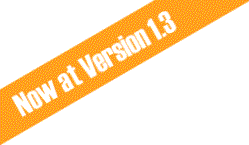
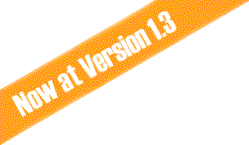
Website: Release Open Rails 1.3
git-svn-id: http://svn.uktrainsim.com/svn/openrails/trunk@4312 a9f3cfff-6c41-7446-b0ca-052bd761e6eb

diff --git a/index.css b/index.css
@@ -10,7 +10,7 @@
   color: #222;
 }
 .totally_free_software {
-  position: absolute; 
+  position: absolute;
   width: 249px;
   height: 143px;
   margin-top: 0px;
@@ -18,7 +18,7 @@
   -webkit-filter: drop-shadow(1px 0px 1px black); filter: drop-shadow(1px 0px 1px black);
 }
 .logo {
-  position: absolute; 
+  position: absolute;
   width: 64px;
   height: 64px;
   margin-top: 40px;
@@ -26,7 +26,7 @@
 }
 
 .logo_text {
-  position: absolute; 
+  position: absolute;
   margin-top: 70px;
   margin-left: 268px;
   font-size: 30px;
@@ -35,7 +35,7 @@
 
 .since_last_visit {
   position: absolute;
-	width: 10em; 
+	width: 10em;
   margin-top: 50px;
   margin-left: 10px;
 }
@@ -56,7 +56,7 @@
 	color: black;
 	opacity: 0.8;
 }
-a.download_button, a.download_button,:hover {
+a.download_button, a.download_button, :hover {
 	color: black;
 	text-decoration: none;
 }

diff --git a/index.php b/index.php
@@ -6,10 +6,11 @@
     <div class="container"><!-- Centres content and sets fixed width to suit device -->
       <div class="row">
         <div class="col-md-9 header">
-          <img class="totally_free_software" src="shared/totally_free_software3.png" alt="Totally free software"/>
+          <!--<img class="totally_free_software" src="shared/totally_free_software3.png" alt="Totally free software"/>-->
           <!--<img class="totally_free_software" src="shared/now_at_version_1_0b.png" alt="Now at Version 1.0"/>-->
           <!--<img class="totally_free_software" src="shared/now_at_version_1_1.png" alt="Now at Version 1.1"/>-->
           <!--<img class="totally_free_software" src="shared/now_at_version_1_2.png" alt="Now at Version 1.2"/>-->
+          <img class="totally_free_software" src="shared/now_at_version_1_3.png" alt="Now at Version 1.3"/>
           <a href="/">
             <img class="logo" src='shared/logos/or_logo.png' alt='logo for Open Rails'/>
             <div class="logo_text">Open Rails</div>
@@ -24,12 +25,12 @@
       </div>
 <?php include "shared/menu.php" ?>
 <?php
-  $download_stable = 'OpenRails-1.2-Setup.exe';
+  $download_stable = 'OpenRails-1.3-Setup.exe';
   $file_path = "files";
 ?>
       <div class="row">
         <div class="col-md-6">
-          <img class="focus_image" src='shared/banners/banner058.jpg' title="UP7964 leads 'K' Liner on LSRC (Michigan)&#xa;posted by ATW" alt="UP7964 leads 'K' Liner on LSRC (Michigan)&#xa;posted by ATW">
+          <img class="focus_image" src='banner.jpg' title="UP SD70ACe train consist visiting the CN Ruel Subdivision&#xa;(Open Rails route in development)&#xa;posted by TrainSimulations.net" alt="UP SD70ACe train consist visiting the CN Ruel Subdivision&#xa;(Open Rails route in development)&#xa;posted by TrainSimulations.net">
         </div>
         <div class="row preload hidden"></div> <!-- empty div used to hold banner preload -->
         <div class="col-md-6">
@@ -43,59 +44,48 @@
             <a href="#modal1" role="button" class='btn download_button' data-toggle="modal">
               <span class='glyphicon glyphicon-download'></span>&nbsp; Download the installer
               <?php echo '(' . date('d F Y', filemtime("$file_path/$download_stable")) . ', ' . round(filesize("$file_path/$download_stable") / 1024 / 1024) . 'MB)'; ?>
-            </a>
+			</a>
           </div>
         </div>
       </div>
       <div class="row">
         <div class="col-md-4 divider">
           <div class="heading">
-            <h4>Features</h4>
+            <h4>Key Changes in v1.3</h4>
           </div>
           <p>
-            <strong>Multiple languages</strong> are available for all text and menus.
+            Timetables can join and split trains to form new trains
           </p><p>
-            <strong>Accurate behaviour</strong> for steam, diesel and electric traction including trains with multiple locos.
+            Mouse control for 3D cabs
           </p><p>
-            <strong>Signals</strong> which correctly protect the train and permit complex timetabled operations.
+            Working transfer tables
           </p><p>
-            <strong>Multi-user mode</strong> in which any timetabled train can be driven in person or by computer.
-					</p>
+            Activity evaluation
+          </p><p>
+            Separate files for extensions to activity files
+          </p><p>
+            Many <a href="/discover/version-1-3/">more additions and improvements</a> are listed here.
+          </p>
         </div>
         <div class="col-md-4 divider">
           <div class="heading">
             <h4>News</h4>
           </div>
           <p>
+            <strong>Nov 2017</strong>
+            Open Rails trialled <a href="http://www.monogame.net/">with Monogame instead of XNA</a> uses less RAM and give higher frame rates.
+          </p>
+          <p>
             <strong>Jul 2017</strong>
             The Elvas Tower forum plays a major role in developing Open Rails but has been closed to non-members following a dispute.
             All of the <a href="http://www.elvastower.com/forums/">Open Rails sub-forums</a>
             are now open again and becoming a member is easier too.
-          </p>          <p>
+          </p>
+          <p>
             <strong>Feb 2017</strong>
-			3D cabs available commercially - 
+			        3D cabs available commercially -
             <a href="https://www.youtube.com/watch?v=EiccxSAIEe0&feature=em-subs_digest">see video</a>.
           </p>
-          <p>									 
-            <strong>Jan 2017</strong>
-            <a href="/discover/version-1-2/">Open Rails 1.2</a> released! <a href="/download/program/">Download it here</a>.
-          </p>
-<!--
-          <p>
-            <strong>Mar 2016</strong>
-            <a href="/discover/version-1-1/">Open Rails 1.1</a> released!
-          </p>
-          <p>
-            <strong>Dec 2015</strong>
-            The Elvas Tower forum plays a major role in developing Open Rails but has been closed to non-members following a dispute.
-            We can now report that some of the <a href="http://www.elvastower.com/forums/">Open Rails sub-forums</a>
-            are open again.
-          </p>
-          <p>
-            <strong>Jun 2015</strong>
-            The Australian <a href="http://www.zigzag.coalstonewcastle.com.au/">Great Zig Zag Railway</a> released for Open Rails v1.0
-          </p>
--->
         </div>
         <div class="col-md-4 divider">
           <div class="heading">
@@ -116,11 +106,6 @@
             </p><p>
               See more with this <a href="https://www.youtube.com/results?search_query=open+rails" target="_blank">YouTube search</a>.
             </p>
-            <h5>Open Rails Version 0.9</h5>
-            <p>
-              <a href="https://www.youtube.com/watch?v=G73ktiCNKRs" target="_blank">Improvements arriving in v0.9 of Open Rails</a> are demonstrated by one
-              of the project team.
-            </p>
           </div>
         </div>
       </div>
@@ -133,5 +118,81 @@ $title = 'Download Open Rails';
 $download_file = $download_stable;
 include "download/program/preamble.php";
 ?>
+      <!-- Modal -->
+      <style>
+        .modal-backdrop.in {
+          opacity: 0;
+        }
+        #modal2 .modal-dialog {
+          margin-top: 335px;
+        }
+        #modal2 .modal-content {
+          border: none;
+          background: none;
+          box-shadow: none;
+        }
+        #modal2 .user-new > .user-content {
+          background-color: rgb(88, 139, 45);
+        }
+        #modal2 .user-existing > .user-content {
+          background-color: rgb(45, 94, 139);
+        }
+        #modal2 .user-content {
+          padding: 1px 20px 20px;
+        }
+        #modal2 .user-content * {
+          color: white;
+        }
+        #modal2 .user-content button {
+          opacity: 1;
+          font-size: 2.5em;
+        }
+        #modal2 .user-content h1 {
+          font-size: 18px;
+          font-weight: normal;
+        }
+        #modal2 .user-content p {
+          margin: 1em 0;
+        }
+        #modal2 .user-content img {
+          width: 100%;
+        }
+      </style>
+
+      <div id='modal2' class='modal fade' tabindex='-1' role='dialog' aria-labelledby='myModalLabel' aria-hidden='true'>
+        <div class="modal-dialog modal-lg">
+          <div class="modal-content row">
+            <div class="user-new col-md-6">
+              <div class="user-content">
+                <button type="button" class="close" data-dismiss="modal" aria-hidden="true">&times;</button>
+                <h1>New to Open Rails?</h1>
+                <h1>This <strong><a href="http://www.zigzag.coalstonewcastle.com.au/route/downloads/" title="Tutorials in this kit will help you to learn the rudimentary controls in Open Rails, how to drive a steam locomotive, operate the air brakes to stop the train, to turn the locomotive on a turntable, to fuel locomotive with water and coal, and also how to shunt cars and wagons">Starter Kit</a></strong> is for you</h1>
+                <p>Quickest way to get started with Open Rails</p>
+                <p>Download installs both Open Rails v1.3 and the Zig Zag Railway route with tutorial activities</p>
+                <a href="http://www.zigzag.coalstonewcastle.com.au/route/downloads/" title="Tutorials in this kit will help you to learn the rudimentary controls in Open Rails, how to drive a steam locomotive, operate the air brakes to stop the train, to turn the locomotive on a turntable, to fuel locomotive with water and coal, and also how to shunt cars and wagons"><img src="landing_page_ctn.png"></a>
+              </div>
+            </div>
+            <div class="user-existing col-md-6">
+              <div class="user-content">
+                <button type="button" class="close" data-dismiss="modal" aria-hidden="true">&times;</button>
+                <h1>Already using Open Rails?</h1>
+                <h1>Try the <strong><a href="http://www.trainsimulations.net/ORTS_starter_pack.html">BNSF Scenic Route</a></strong></h1>
+                <p>High quality route donated by vendor TrainSimulations</p>
+                <p>This route has been updated for Open Rails to optimise physics and sound</p>
+                <a href="http://www.trainsimulations.net/ORTS_starter_pack.html"><img src="landing_page_ts.png"></a>
+              </div>
+            </div>
+          </div><!-- End of Modal content -->
+        </div><!-- End of Modal dialog -->
+      </div><!-- End of Modal -->
+    </div>
+    <!-- pop up modal2 -->
+    <script type="text/javascript">
+    $(window).on('load',function(){
+      if (!window.matchMedia || window.matchMedia('(min-width: 992px)').matches) {
+        $('#modal2').modal('show');
+      }
+    });
+    </script>
   </body>
 </html>

diff --git a/shared/menu.php b/shared/menu.php
@@ -31,7 +31,8 @@ function in_directory($cwd, $name) {
                 <li><a href="/discover/our-plans/">Our Plans</a></li>
                 <!--<li><a href="/discover/version-1-0/">Version 1.0</a></li>-->
                 <!--<li><a href="/discover/version-1-1/">Version 1.1</a></li>-->
-                <li><a href="/discover/version-1-2/">Version 1.2</a></li>
+                <!-- <li><a href="/discover/version-1-2/">Version 1.2</a></li> -->
+                <li><a href="/discover/version-1-3/">Version 1.3</a></li>
                 <li><a href="/discover/project-team/">Project Team</a></li>
                 <li><a href="/discover/news/">News</a></li>
                 <li><a href="/discover/license/">License</a></li>

diff --git a/download/program/index.php b/download/program/index.php
@@ -8,7 +8,7 @@
 <?php include "../../shared/banners/show_banner.php" ?>
 <?php include "../../shared/menu.php" ?>
 <?php
-  $download_stable = 'OpenRails-1.2-Setup.exe';
+  $download_stable = 'OpenRails-1.3-Setup.exe';
   $download_testing = 'OpenRails-Testing.zip';
   $file_path = "../../files";
 ?>
@@ -20,7 +20,7 @@
       <div class="row">
         <div class="col-md-1"></div>
         <div class="col-md-4">
-          <h1>Stable Version 1.2 <small>(recommended)</small></h1>
+          <h1>Stable Version 1.3 <small>(recommended)</small></h1>
           <br>
           <!-- Button to trigger modal -->
           <a href="#modal1" role="button" class='btn download_button btn-lg btn-block' data-toggle="modal">
